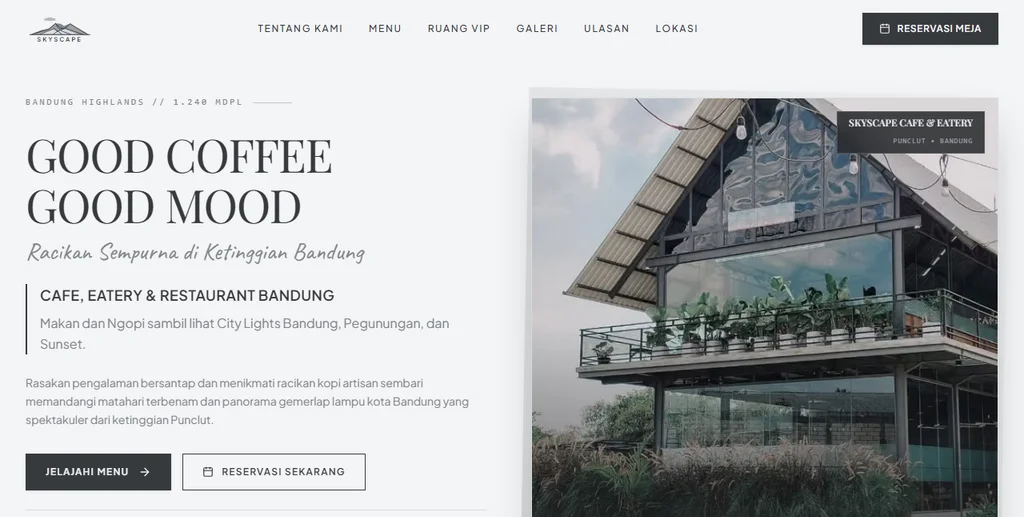
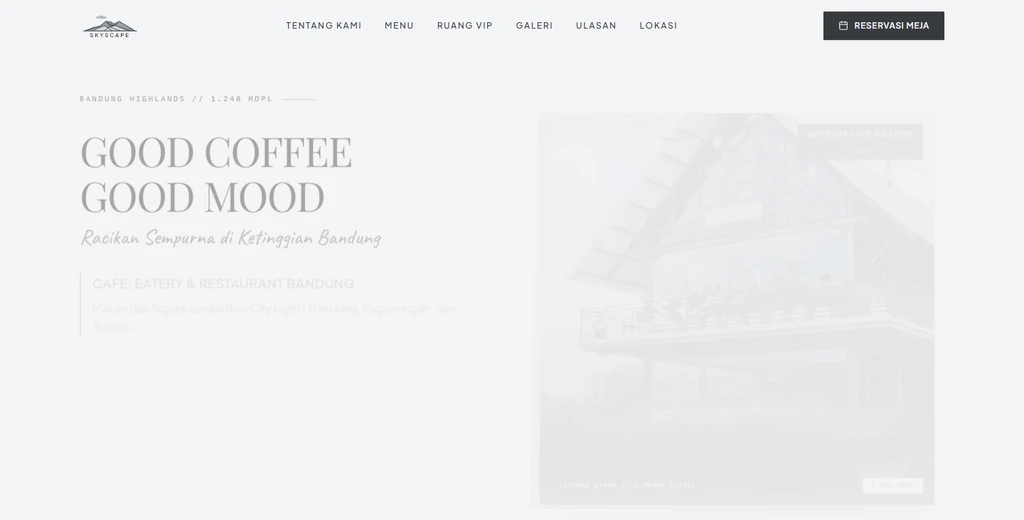
fix(works): adjust card aspect ratio to 1024/520 and object-contain to prevent image cropping

diff --git a/src/assets/pages/WorksPage.jsx b/src/assets/pages/WorksPage.jsx
@@ -140,21 +140,21 @@ const WorksPage = () => {
                 transition={{ duration: 0.35, ease: 'easeOut' }}
                 className="group flex flex-col justify-between"
               >
-                {/* 16:10 Landscape Screenshot Container */}
+                {/* Screenshot Container matching exact 1024x520 viewport */}
                 <a
                   href={`/works/${project.slug}`}
                   onClick={(e) => handleProjectClick(e, project.slug)}
                   aria-label={`View case study for ${project.title}`}
-                  className="relative w-full aspect-[16/10] overflow-hidden border border-gray-200 dark:border-gray-800 bg-gray-50 dark:bg-black block mb-4 sm:mb-5 cursor-pointer"
+                  className="relative w-full aspect-[1024/520] overflow-hidden border border-gray-200 dark:border-gray-800 bg-gray-50 dark:bg-black block mb-4 sm:mb-5 cursor-pointer"
                 >
                   <img
                     src={project.image}
                     alt={`Screenshot of ${project.title}`}
-                    width="800"
-                    height="500"
+                    width="1024"
+                    height="520"
                     loading="lazy"
                     decoding="async"
-                    className="w-full h-full object-cover group-hover:scale-105 transition-transform duration-500 will-change-transform"
+                    className="w-full h-full object-contain group-hover:scale-[1.02] transition-transform duration-500 will-change-transform"
                   />
                   <div className="absolute inset-0 bg-black/0 group-hover:bg-black/10 transition-colors duration-300" />
                 </a>

diff --git a/src/assets/components/works/works.jsx b/src/assets/components/works/works.jsx
@@ -60,21 +60,21 @@ const Works = () => {
               transition={{ duration: 0.5, ease: [0.22, 1, 0.36, 1] }}
               className="group flex flex-col justify-between"
             >
-              {/* 16:10 Landscape Screenshot Container */}
+              {/* Screenshot Container matching exact 1024x520 viewport */}
               <a
                 href={`/works/${project.slug}`}
                 onClick={(e) => handleProjectClick(e, project.slug)}
                 aria-label={`View case study for ${project.title}`}
-                className="relative w-full aspect-[16/10] overflow-hidden border border-gray-200 dark:border-gray-800 bg-gray-50 dark:bg-black block mb-4 sm:mb-5 cursor-pointer"
+                className="relative w-full aspect-[1024/520] overflow-hidden border border-gray-200 dark:border-gray-800 bg-gray-50 dark:bg-black block mb-4 sm:mb-5 cursor-pointer"
               >
                 <img
                   src={project.image}
                   alt={`Screenshot of ${project.title}`}
-                  width="800"
-                  height="500"
+                  width="1024"
+                  height="520"
                   loading="lazy"
                   decoding="async"
-                  className="w-full h-full object-cover group-hover:scale-105 transition-transform duration-500 will-change-transform"
+                  className="w-full h-full object-contain group-hover:scale-[1.02] transition-transform duration-500 will-change-transform"
                 />
                 <div className="absolute inset-0 bg-black/0 group-hover:bg-black/10 transition-colors duration-300" />
               </a>

diff --git a/src/assets/pages/AdminPage.jsx b/src/assets/pages/AdminPage.jsx
@@ -638,11 +638,11 @@ const AdminPage = () => {
                     key={project.slug}
                     className="relative group border border-gray-300 dark:border-gray-700 bg-white dark:bg-black p-3 flex flex-col justify-between"
                   >
-                    <div className="relative aspect-[16/10] overflow-hidden bg-gray-100 dark:bg-neutral-900 mb-3">
+                    <div className="relative aspect-[1024/520] overflow-hidden bg-gray-100 dark:bg-neutral-900 mb-3">
                       <img
                         src={project.image}
                         alt={project.title}
-                        className="w-full h-full object-cover"
+                        className="w-full h-full object-contain"
                       />
                       <div className="absolute top-2 left-2 px-2 py-0.5 bg-black/80 text-amber-400 font-mono text-[10px] font-bold uppercase tracking-wider border border-amber-500/40 flex items-center gap-1">
                         <FiStar className="w-2.5 h-2.5 fill-current" />

diff --git a/src/assets/pages/ProjectDetail.jsx b/src/assets/pages/ProjectDetail.jsx
@@ -193,15 +193,15 @@ const ProjectDetail = () => {
         </div>
 
         {/* Full-Width Preview Showcase Mockup */}
-        <div className="w-full aspect-[16/10] sm:aspect-[16/9] border border-gray-200 dark:border-gray-800 bg-gray-100 dark:bg-neutral-950 overflow-hidden mb-16 sm:mb-24 shadow-sm">
+        <div className="w-full aspect-[1024/520] border border-gray-200 dark:border-gray-800 bg-gray-100 dark:bg-neutral-950 overflow-hidden mb-16 sm:mb-24 shadow-sm">
           <img
             src={project.image}
             alt={`${project.title} Interface Showcase`}
-            width="1400"
-            height="875"
+            width="1024"
+            height="520"
             loading="eager"
             decoding="async"
-            className="w-full h-full object-cover"
+            className="w-full h-full object-contain"
           />
         </div>
 
